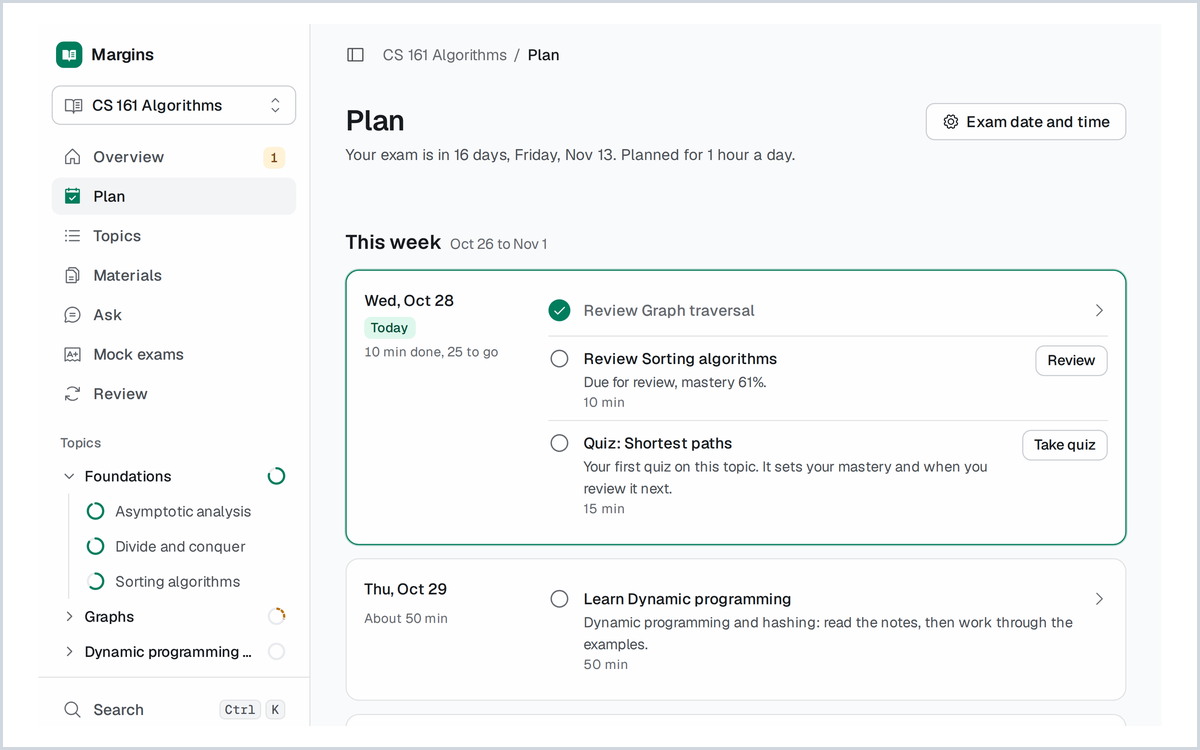
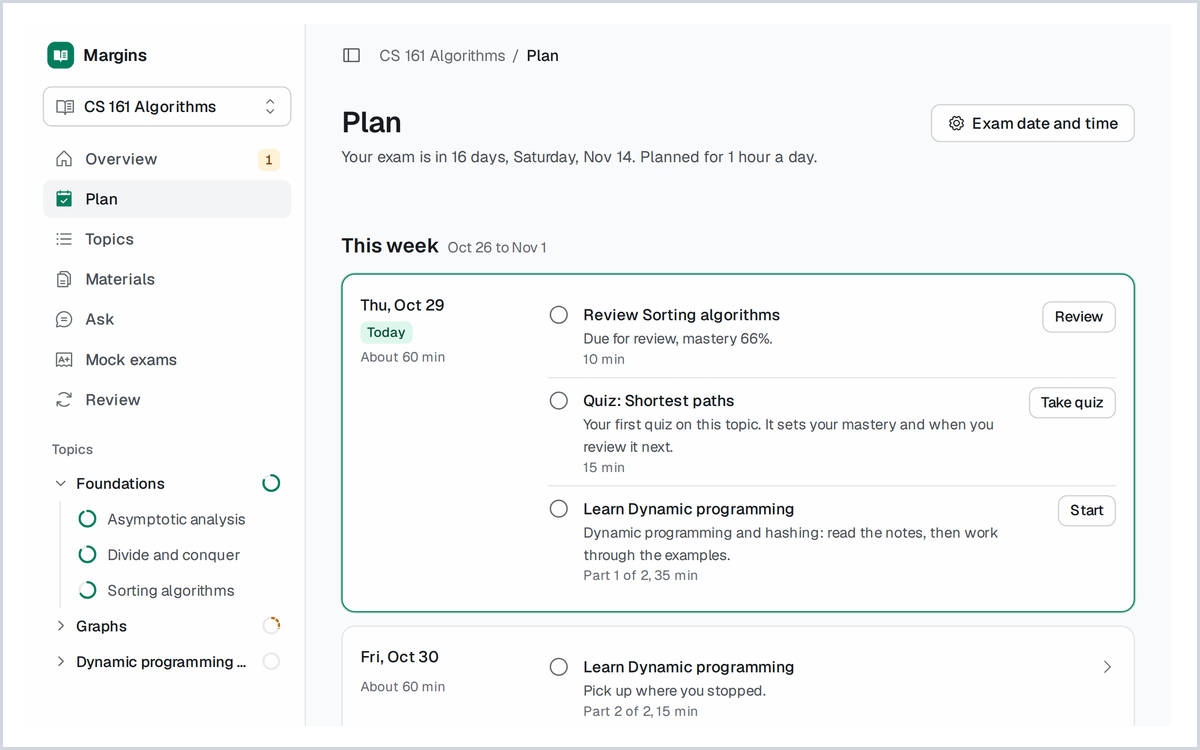
Margins: the re-captured plan screen, its retrieval result and evaluation link (#27)

diff --git a/README.md b/README.md
@@ -23,10 +23,10 @@ I'm a software engineer at [Purgo AI](https://www.purgo.ai/) in the San Francisc
 
 <table>
   <tr>
-    <td width="44%" valign="top"><a href="https://studymargins.com"><img src="images/margins.png" alt="Margins' plan page for a sample course: the exam date and this week's sessions."></a></td>
+    <td width="44%" valign="top"><a href="https://studymargins.com"><img src="images/margins.png" alt="Margins' plan page for a sample course: the exam in 16 days, and today's sessions, a review, a first quiz and a lesson."></a></td>
     <td valign="top"><b><a href="https://studymargins.com">Margins</a></b><br>
-    Turns your own course files into cited notes, quizzes and timed practice exams, plus a voice coach, and plans each day's work up to your exam.<br>
-    <a href="https://github.com/harishm17/margins">Source</a></td>
+    Turns your own course files into cited notes, quizzes and timed practice exams, plus a voice coach, and plans each day's work up to your exam. Hybrid search with reciprocal rank fusion raised retrieval MRR from 0.83 to 0.96 on a 38-topic eval.<br>
+    <a href="https://studymargins.com/evaluation">Evaluation</a> · <a href="https://github.com/harishm17/margins">Source</a></td>
   </tr>
 </table>
 
